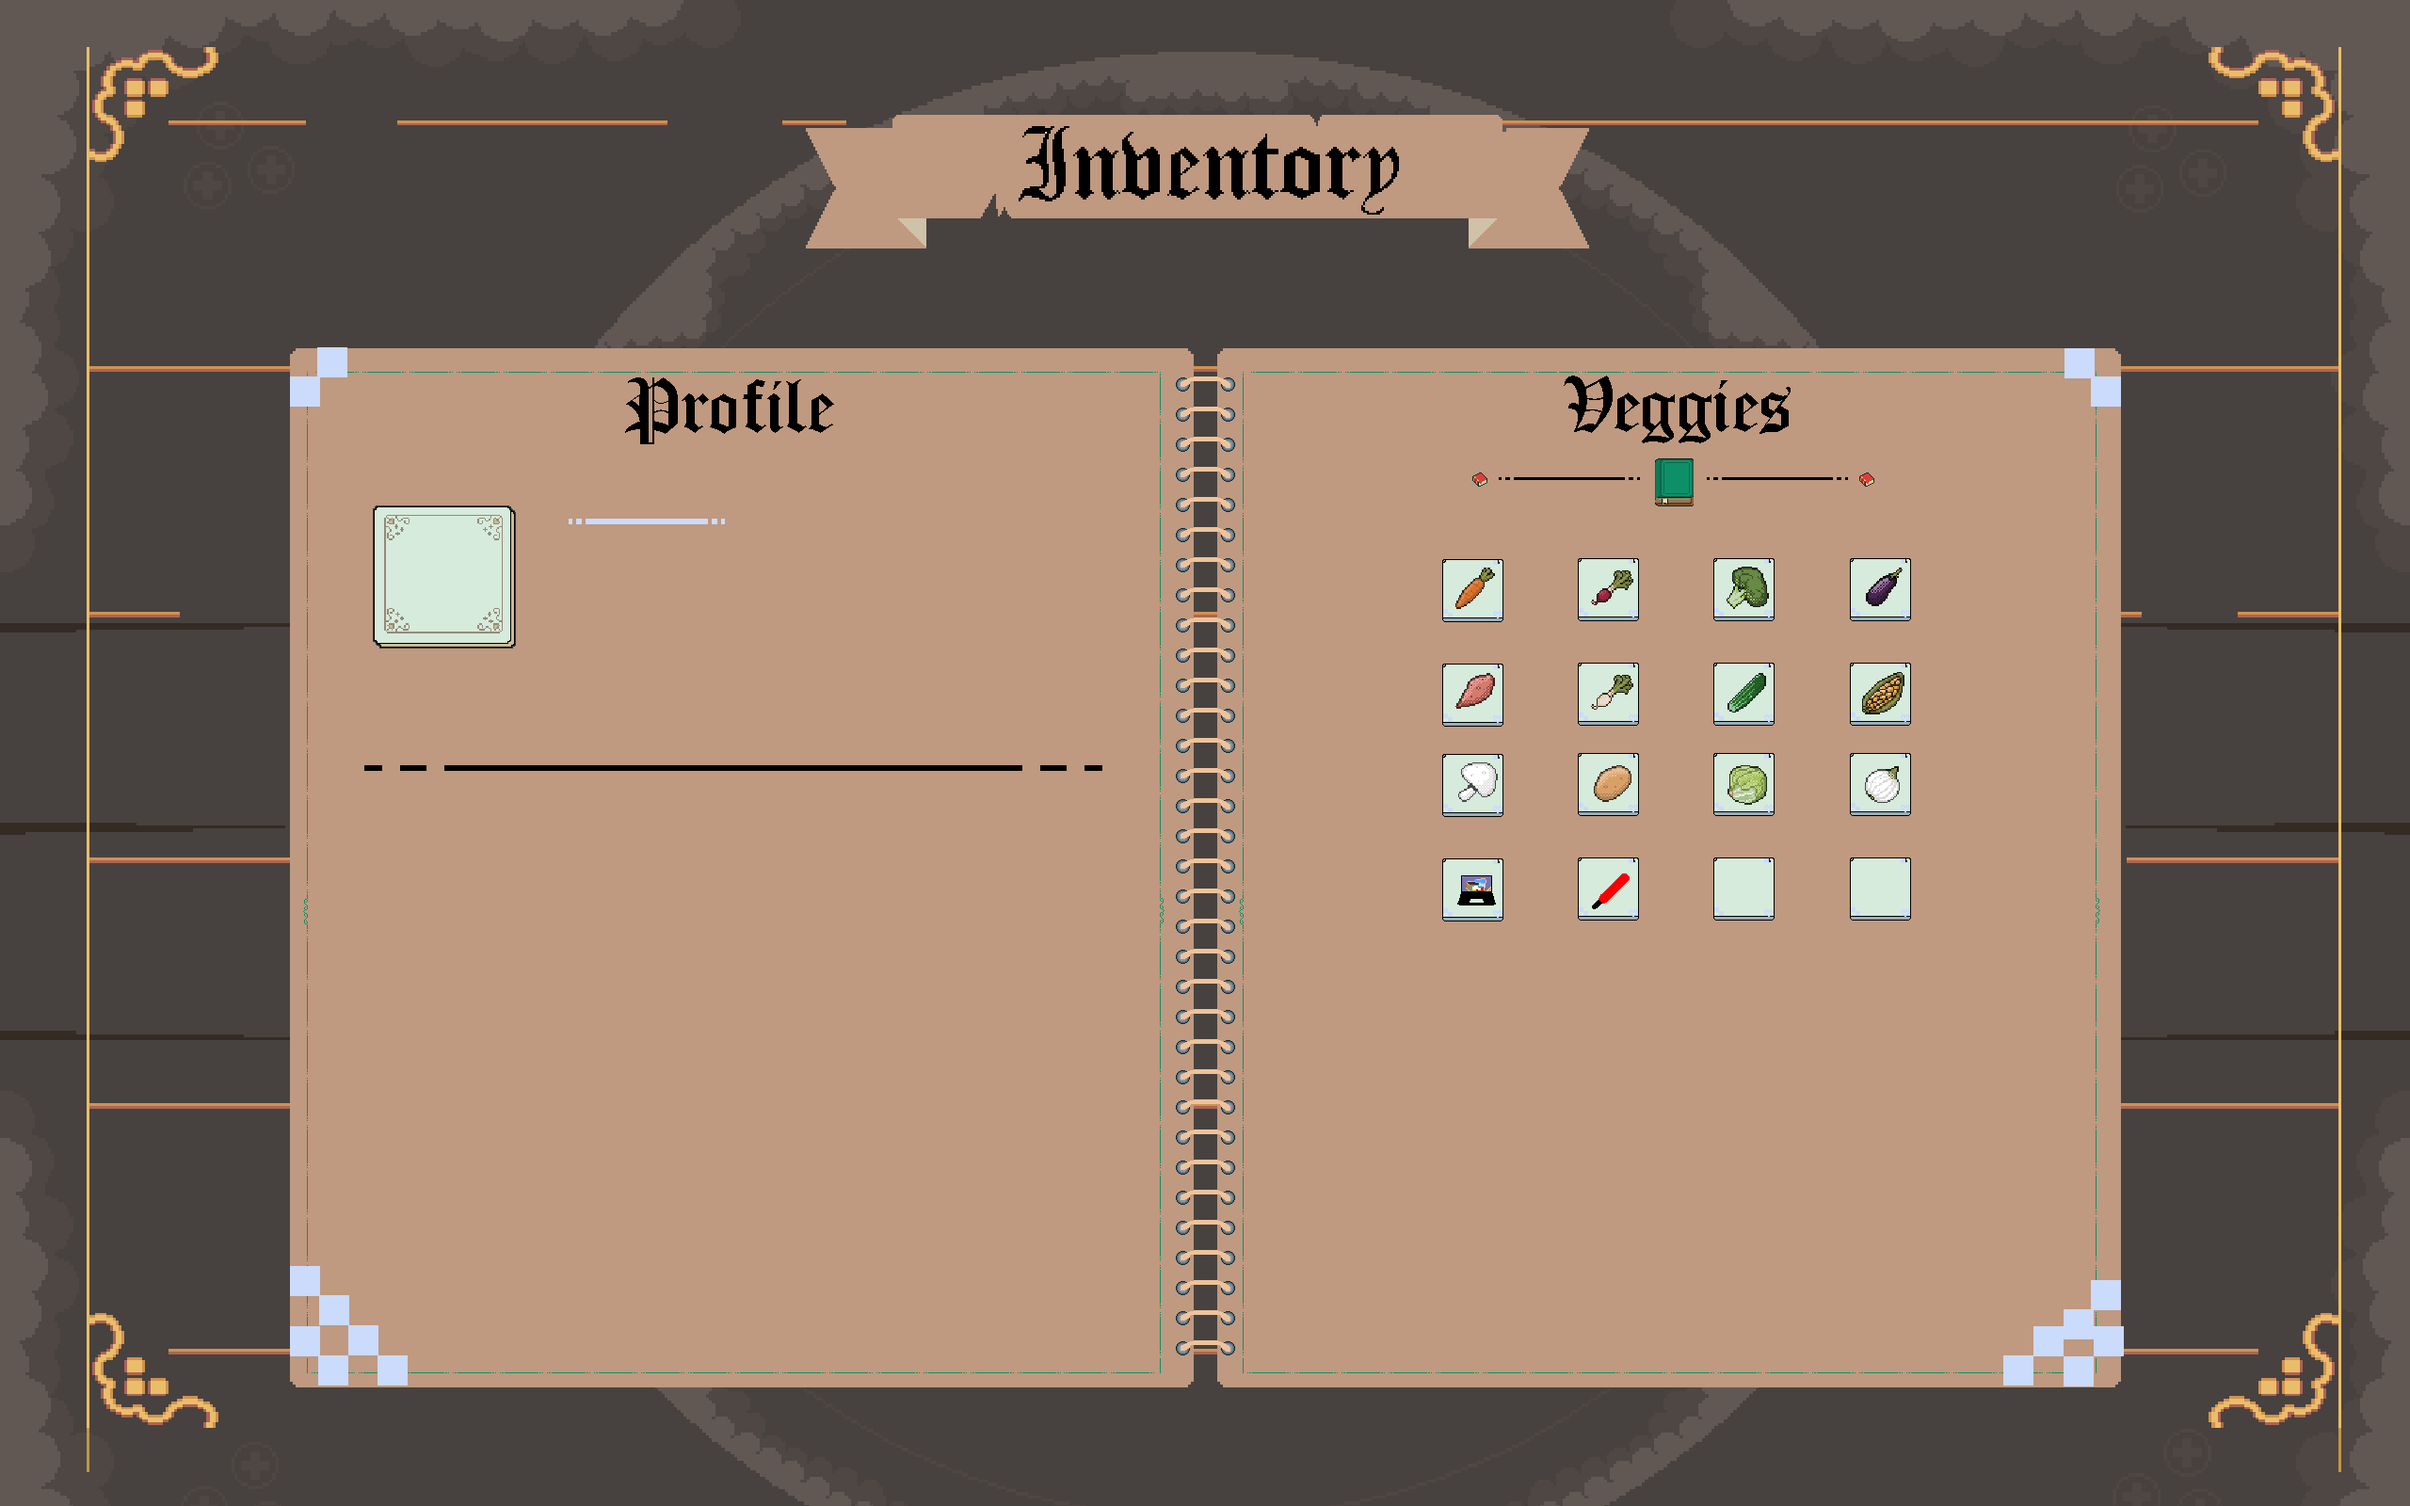
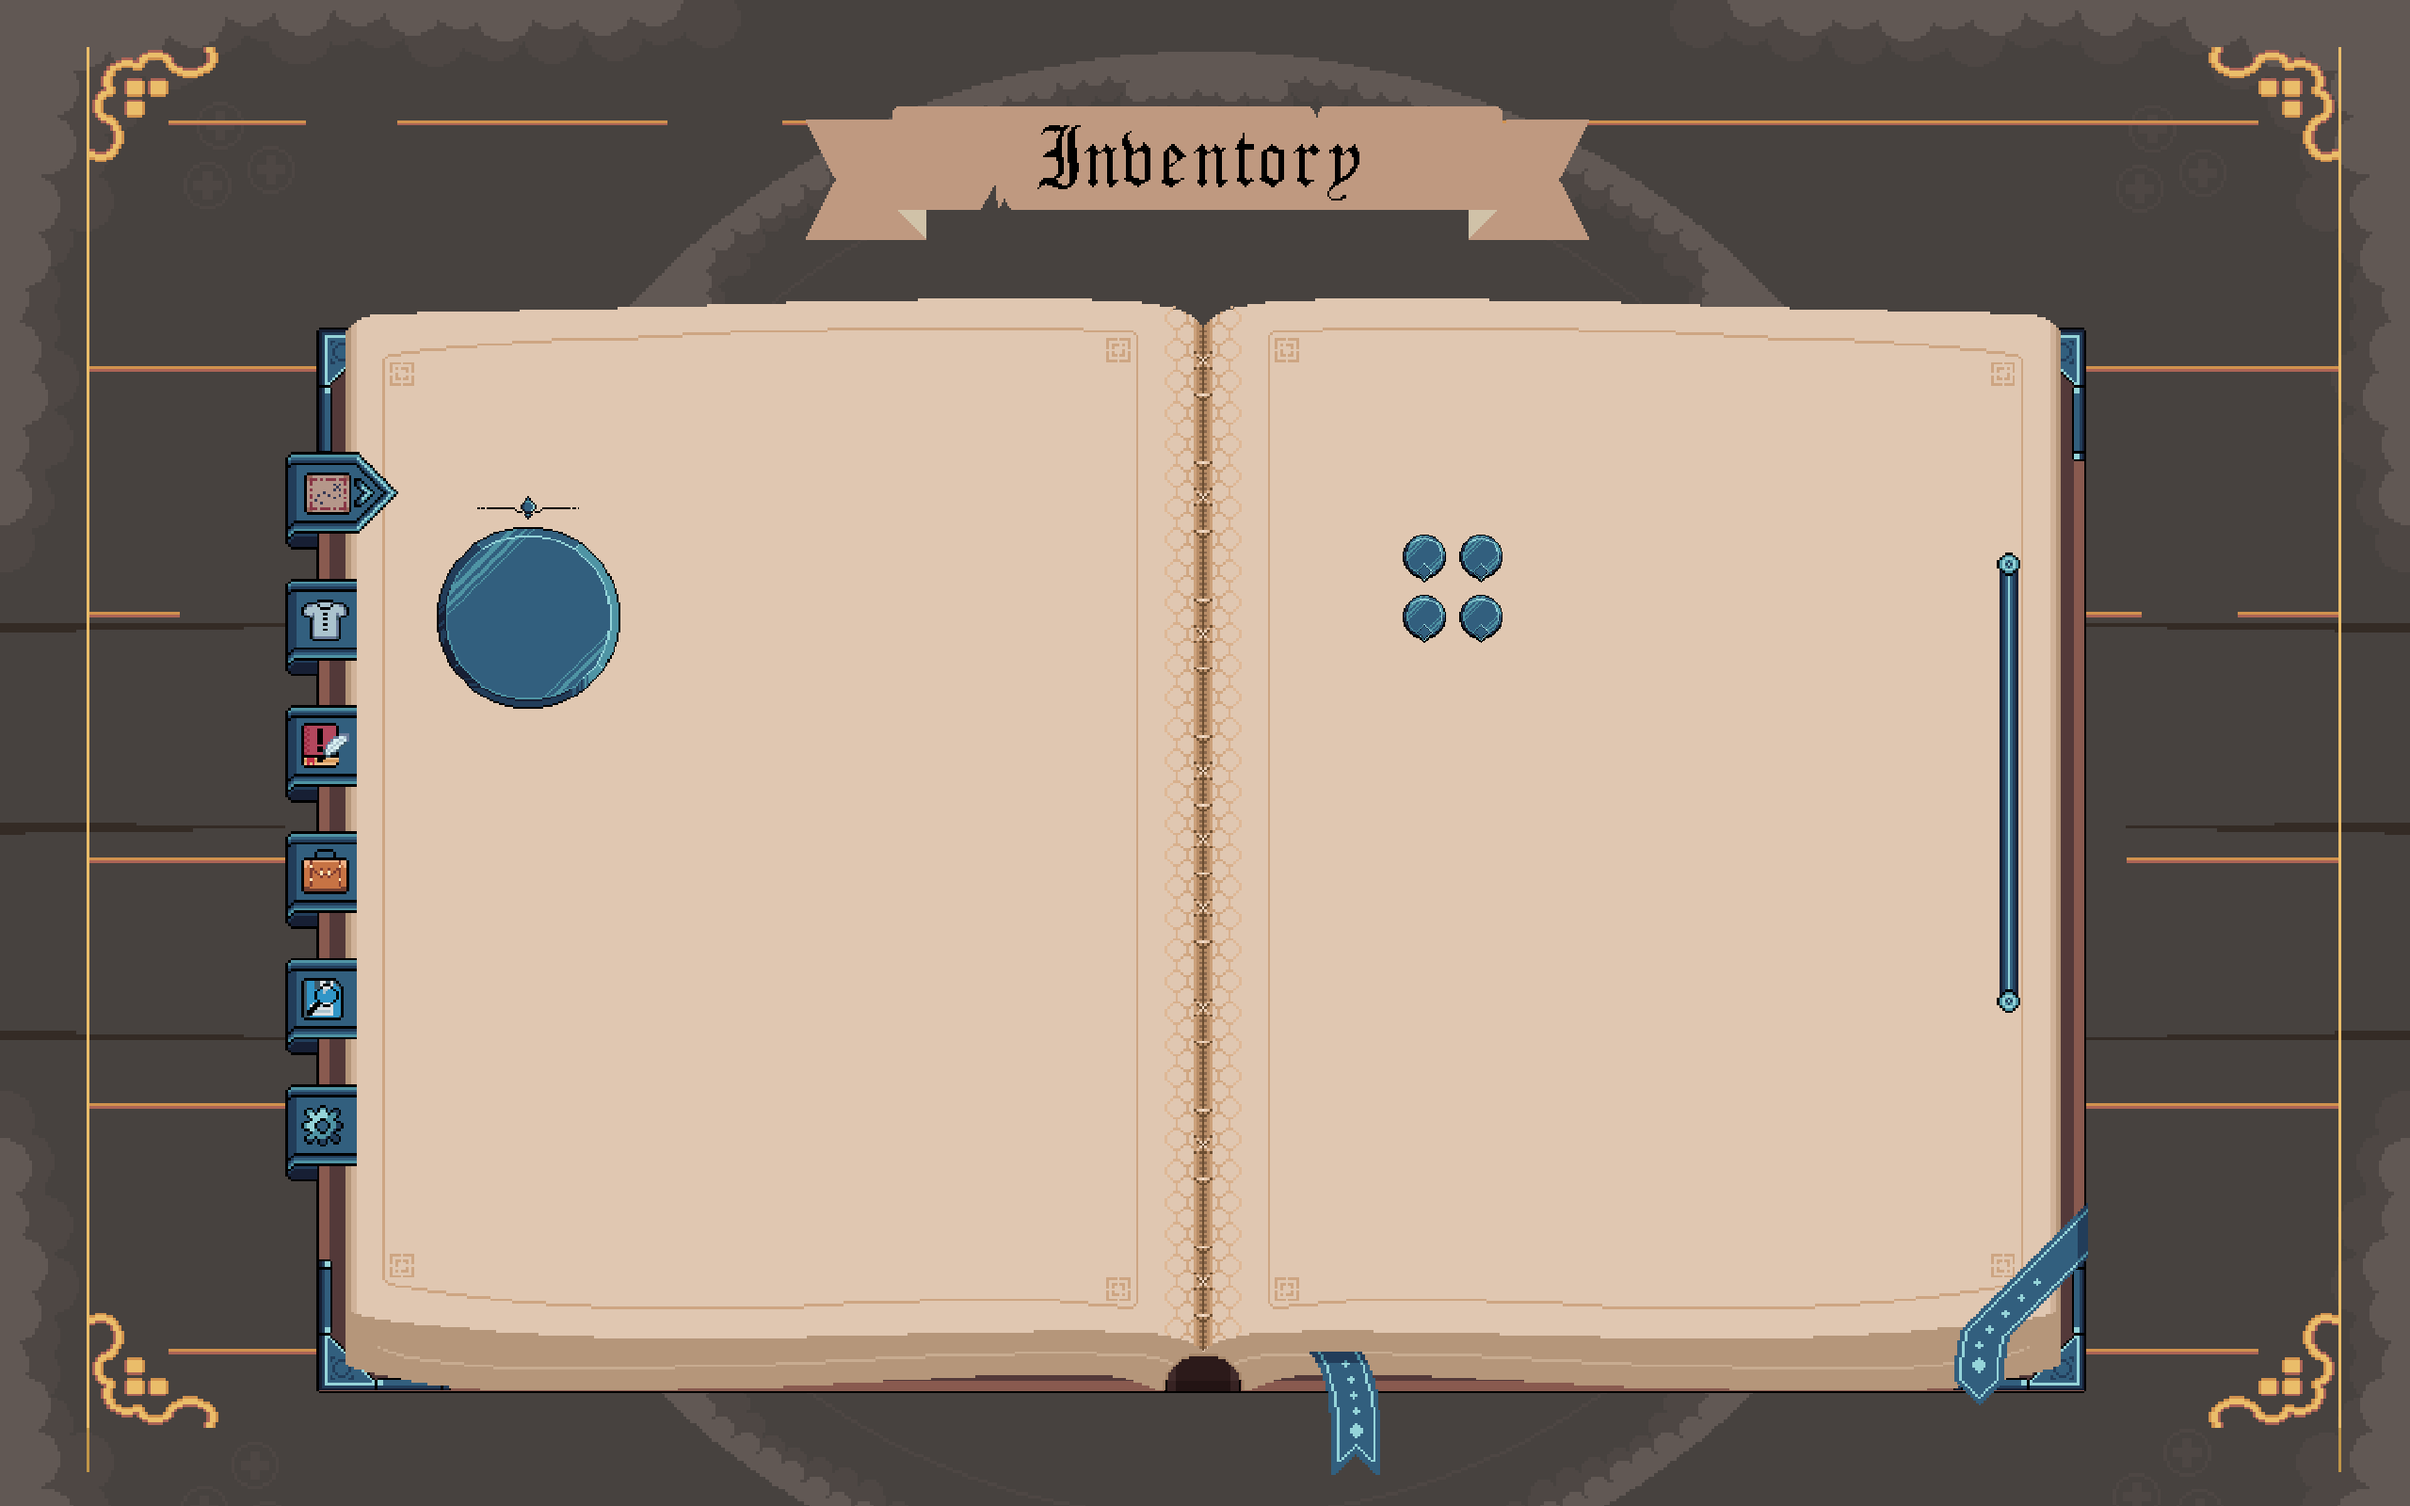
feat(choose-player): graphics improvement
1. add new background
2. optimize text input box
3. add new button to continue

diff --git a/game/game.py b/game/game.py
@@ -39,8 +39,8 @@ STATIC_BACKGROUND = pygame.image.load("assets/menu/static-background.png")
 BG_5 = pygame.image.load("assets/menu/5.png")
 BG_6 = pygame.image.load("assets/menu/6.png")
 
-def get_font(size):
-    return pygame.font.Font("assets/font.ttf", size)
+def get_font(size, font="assets/font.ttf"):
+    return pygame.font.Font(font, size)
 
 
 def play():
@@ -73,7 +73,8 @@ def play():
 
 def choosePlayer():
 
-    background = pygame.image.load("assets/pause-phase/choose-player-background.png")
+    # blit an universal background
+    background = pygame.image.load("assets/pause-phase/choose-player.png")
     running = True
 
     STUDENT_BUTTON = StudentCard(image=pygame.image.load("assets/players/student.png"), pos=(500, 500),
@@ -85,7 +86,7 @@ def choosePlayer():
     ENCHANTRESS_BUTTON = EnchantressCard(image=pygame.image.load("assets/players/enchantress.png"), pos=(SCREEN_WIDTH - 500, 500),
                                text_input="ENCHANTRESS", font=get_font(30), base_color="#d7fcd4", hovering_color="White")
 
-    input_box_rect = pygame.Rect(1080,200,400,40)
+    input_box_rect = pygame.Rect(1690,1114,200,50)
     input_text = ""
     input_active = False
 
@@ -94,21 +95,21 @@ def choosePlayer():
     cursor_timer = 0
 
     # Set up the label
-    label_text = "Enter Player Name:"
-    label_surface = get_font(30).render(label_text, True, (0,0,0))
+    label_text = "Enter Your Name:"
+    label_surface = get_font(30, "assets/fonts/inventory_font.ttf").render(label_text, True, (0,0,0))
     label_rect = label_surface.get_rect()
     label_rect.x = input_box_rect.x
     label_rect.y = input_box_rect.y - label_rect.height - 5
 
-    BACK_BUTTON = Button(image=pygame.image.load("assets/menu/Play Rect.png"), pos=(SCREEN_WIDTH/2, 650),
-                               text_input="BACK", font=get_font(50), base_color="#d7fcd4", hovering_color="White")
+    CONTINUE_BUTTON = Button(image=pygame.image.load("assets/pause-phase/pause-button.png"), pos=(1800, 1225),
+                               text_input="I'M READY", font=get_font(13), base_color="#d7fcd4", hovering_color="White")
 
     while running:
         CHOOSEPLAYER_MOUSE_POS = pygame.mouse.get_pos()
         SCREEN.blit(background, (0, 0))
         # dimmer.dim(darken_factor=200, color_filter=(0, 0, 0))
 
-        for button in [STUDENT_BUTTON, SOLDIER_BUTTON, ENCHANTRESS_BUTTON]:
+        for button in [STUDENT_BUTTON, SOLDIER_BUTTON, ENCHANTRESS_BUTTON, CONTINUE_BUTTON]:
             button.changeColor(CHOOSEPLAYER_MOUSE_POS)
             button.hoverNoise(CHOOSEPLAYER_MOUSE_POS)
             button.update(SCREEN)
@@ -143,9 +144,9 @@ def choosePlayer():
                     elif event.key == pygame.K_BACKSPACE:
                         input_text = input_text[:-1]
 
-        pygame.draw.rect(SCREEN, (0,0,0), input_box_rect, 2)
-        input_surface = get_font(30).render(input_text, True, (0,0,0))
-        SCREEN.blit(input_surface, (input_box_rect.x + 5, input_box_rect.y + 5))
+        # pygame.draw.rect(SCREEN, (0,0,0), input_box_rect, 2)
+        input_surface = get_font(50, "assets/fonts/inventory_font.ttf").render(input_text, True, (255,255,255))
+        SCREEN.blit(input_surface, (input_box_rect.x + 50, input_box_rect.y + 5))
         SCREEN.blit(label_surface, label_rect)
 
         if input_active:
@@ -154,9 +155,9 @@ def choosePlayer():
                 cursor_active = not cursor_active
                 cursor_timer = 0
             if cursor_active:
-                cursor_surface = get_font(30).render("|", True, (0,0,0))
+                cursor_surface = get_font(50).render("|", True, (0,0,0))
                 cursor_rect = cursor_surface.get_rect()
-                cursor_rect.x = input_box_rect.x + 5 + input_surface.get_width()
+                cursor_rect.x = input_box_rect.x + 50 + input_surface.get_width()
                 cursor_rect.y = input_box_rect.y + 5
                 SCREEN.blit(cursor_surface, cursor_rect)
         
@@ -459,23 +460,23 @@ def options():
 
 def sub_menu():
 
-    background = pygame.image.load("assets/grass.png")
-    dimmer = Dimmer(keepalive=True)
+    background = pygame.image.load("assets/book_background.png")
+    # dimmer = Dimmer(keepalive=True)
     running = True
 
     # Initialize buttons
 
-    RESUME_BUTTON = Button(image=pygame.image.load("assets/menu/Options Rect.png"), pos=(SCREEN_WIDTH/2, 350),
-                             text_input="RESUME", font=get_font(55), base_color="#d7fcd4", hovering_color="White")
+    RESUME_BUTTON = Button(image=pygame.image.load("assets/pause-phase/pause-button.png"), pos=(1730, 58),
+                             text_input="RESUME", font=get_font(15), base_color="#d7fcd4", hovering_color="White")
 
-    OPTIONS_BUTTON = Button(image=pygame.image.load("assets/menu/Options Rect.png"), pos=(SCREEN_WIDTH/2, 500),
-                            text_input="OPTIONS", font=get_font(55), base_color="#d7fcd4", hovering_color="White")
+    OPTIONS_BUTTON = Button(image=pygame.image.load("assets/pause-phase/pause-button.png"), pos=(1900, 58),
+                            text_input="OPTIONS", font=get_font(15), base_color="#d7fcd4", hovering_color="White")
 
-    MAIN_BUTTON = Button(image=pygame.image.load("assets/menu/Options Rect.png"), pos=(SCREEN_WIDTH/2, 650),
-                              text_input="MAIN MENU", font=get_font(55), base_color="#d7fcd4", hovering_color="White")
+    MAIN_BUTTON = Button(image=pygame.image.load("assets/pause-phase/pause-button.png"), pos=(2070, 58),
+                              text_input="MAIN MENU", font=get_font(12), base_color="#d7fcd4", hovering_color="White")
 
-    QUIT_BUTTON = Button(image=pygame.image.load("assets/menu/Play Rect.png"), pos=(SCREEN_WIDTH/2, 800),
-                               text_input="QUIT", font=get_font(50), base_color="#d7fcd4", hovering_color="White")
+    QUIT_BUTTON = Button(image=pygame.image.load("assets/pause-phase/pause-button.png"), pos=(2240, 58),
+                               text_input="QUIT", font=get_font(15), base_color="#d7fcd4", hovering_color="White")
     
     # Button clicking sound effect
     clicking_sound = mixer.Sound('assets/music/button_clicked.mp3')
@@ -485,7 +486,7 @@ def sub_menu():
         SCREEN.blit(background, (0, 0))
 
         MENU_MOUSE_POS = pygame.mouse.get_pos()
-        dimmer.dim(darken_factor=200, color_filter=(0, 0, 0))
+        # dimmer.dim(darken_factor=200, color_filter=(0, 0, 0))
 
         # Initialize main text box
         MENU_TEXT = get_font(150).render("Paused", True, "#b68f40")

diff --git a/game/Spritesheet.py b/game/Spritesheet.py
@@ -39,3 +39,35 @@ class SpriteSheet():
             animation_list.append(temp_img_list)
         
         return animation_list
+    
+
+class Animation(SpriteSheet):
+    def __init__(self, pos, image, animation_steps, frame_size, scale, animation_cooldown=170, pause=False):
+        '''
+        image: pygame.image object after calling convert_alpha()
+
+        '''
+        self.animation_list = self.get_animation_list(animation_steps, frame_size, scale)
+        self.last_update = pygame.time.get_ticks()
+        self.animation_cooldown = animation_cooldown
+        self.frame_col = 0
+        self.rect = image.get_rect(center=pos)
+        self.pause = pause
+        super().__init__(image)
+
+
+    def update(self, screen):
+        '''
+        blit action on to screen
+        
+
+        if self.pause is True, we blit the screen with old frame.
+        '''
+        if not self.pause:
+            self.current_time = pygame.time.get_ticks()
+            if self.current_time - self.last_update >= self.animation_cooldown:
+                self.frame_col += 1
+                self.last_update = self.current_time
+                if self.frame_col >= len(self.animation_list[0]):
+                    self.frame_col = 0
+        screen.blit(self.animation_list[0][self.frame_col], self.rect)
